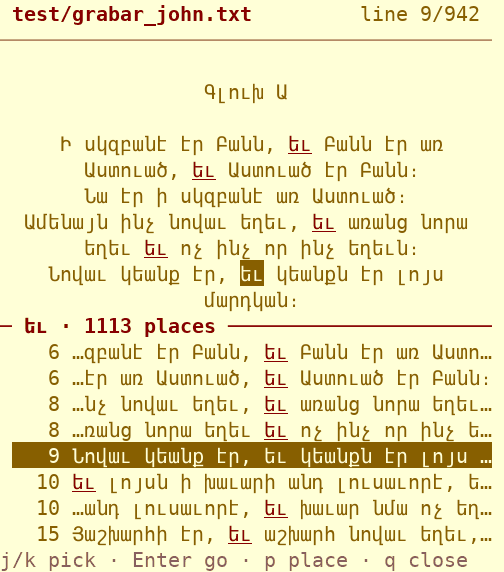
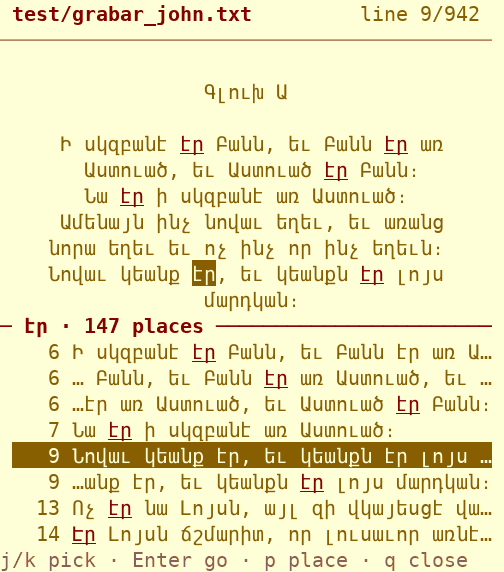
Keep a 10% margin left and right of the reader text
The text column now leaves 10% of the text area's width (at
least one column) empty on each side, also beside an open
panel; title, help and panel use the full width as before.
Screenshots regenerated.

Claude-Session: https://claude.ai/code/session_01MmoF2qyxoB4D2nBrMMMzFR

diff --git a/scripts/nxgir_reader.py b/scripts/nxgir_reader.py
@@ -178,22 +178,30 @@ def first_from(words, row):
 
 
 TEXT_MAX = 70  # widest text column, for easy reading
+MARGIN = 0.10  # empty space left and right of the text
 ALIGNS = ("center", "left")
+
+
+def margin(box_w):
+    """Columns kept empty at each side of the text."""
+    return max(round(box_w * MARGIN), 1)
 
 
 def text_width(box_w):
     """Width to wrap the text to inside a box."""
-    return max(min(box_w - 2, TEXT_MAX), 10)
+    room = box_w - 2 * margin(box_w)
+    return max(min(room, TEXT_MAX), 10)
 
 
 def row_x(box_w, row_len, align):
     """Screen column (in the box) where a row starts.
 
-    The text column is centered in the box; with
-    align "center" each row is also centered in it.
+    The text column is centered in the box, with at
+    least margin() free on each side; with align
+    "center" each row is also centered in it.
     """
     cw = text_width(box_w)
-    left = max((box_w - cw) // 2, 1)
+    left = max((box_w - cw) // 2, margin(box_w))
     if align == "center":
         return left + max((cw - row_len) // 2, 0)
     return left

diff --git a/tests/test_reader.py b/tests/test_reader.py
@@ -4,11 +4,13 @@ from nxgir_reader import (
     WORD_RE,
     find,
     layout,
+    margin,
     normalize,
     references,
     row_x,
     snippet,
     split,
+    text_width,
     vertical,
 )
 
@@ -178,10 +180,22 @@ def test_split_modes():
 
 
 def test_row_x_narrow_screen():
-    # phone: the column fills the box, 1 column margin
-    assert row_x(40, 10, "left") == 1
-    assert row_x(40, 10, "center") == 1 + (38 - 10) // 2
-    assert row_x(40, 38, "center") == 1
+    # phone: 10% margin (4 columns) at each side
+    assert margin(40) == 4
+    assert text_width(40) == 32
+    assert row_x(40, 10, "left") == 4
+    assert row_x(40, 10, "center") == 4 + (32 - 10) // 2
+    assert row_x(40, 32, "center") == 4
+
+
+def test_margins_on_both_sides():
+    for w in (20, 34, 42, 60, 80, 100, 160):
+        cw = text_width(w)
+        left = row_x(w, cw, "left")
+        right = w - left - cw
+        assert left >= margin(w), w
+        assert right >= margin(w), w
+        assert margin(w) >= 1
 
 
 def test_row_x_wide_screen_centers_column():

diff --git a/README.md b/README.md
@@ -95,8 +95,9 @@ Pressing Enter on a book in the bookshelf opens it in
 the reader.
 The text wraps to the screen and re-wraps when the
 window size changes. Lines are centered, in a column at
-most 70 characters wide in the middle of the screen. One
-word is under the cursor.
+most 70 characters wide in the middle of the screen, with
+an empty margin of 10% of the width on the left and right.
+One word is under the cursor.
 
 | Key | Action |
 |-----|--------|
